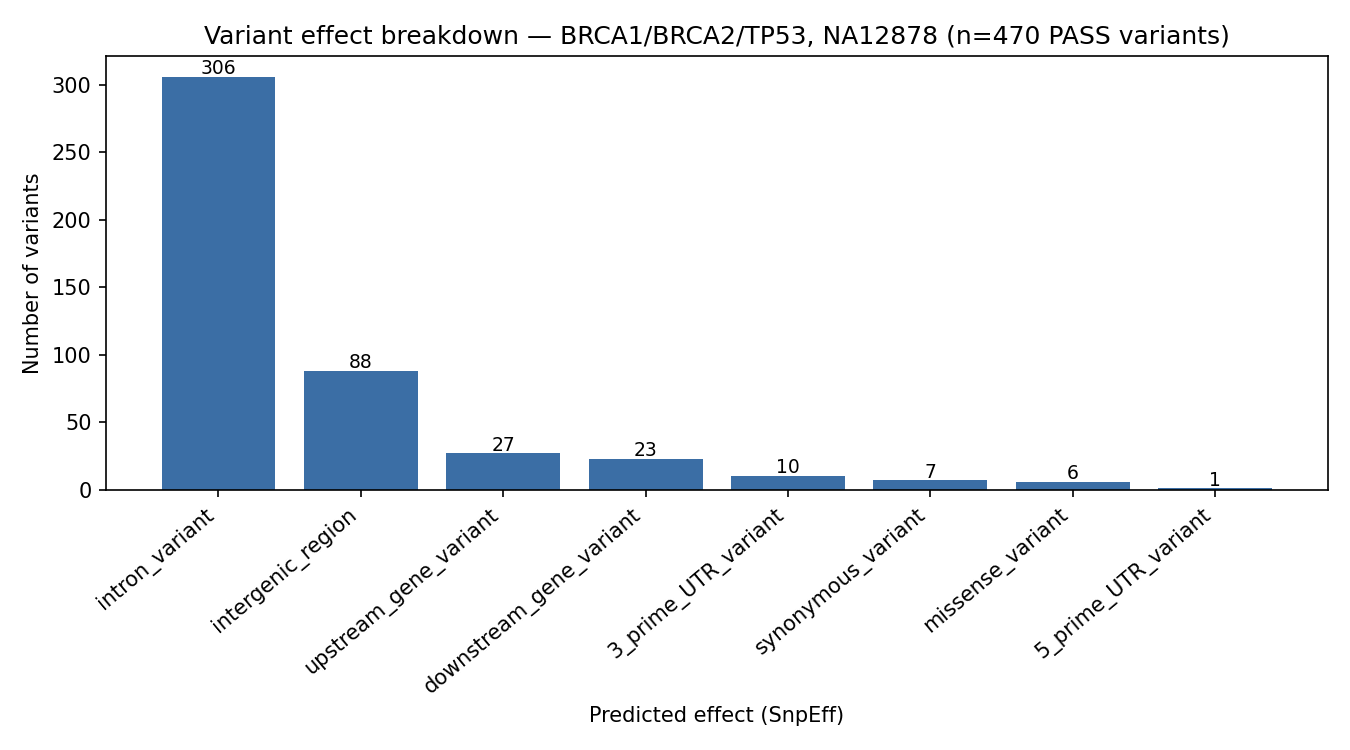
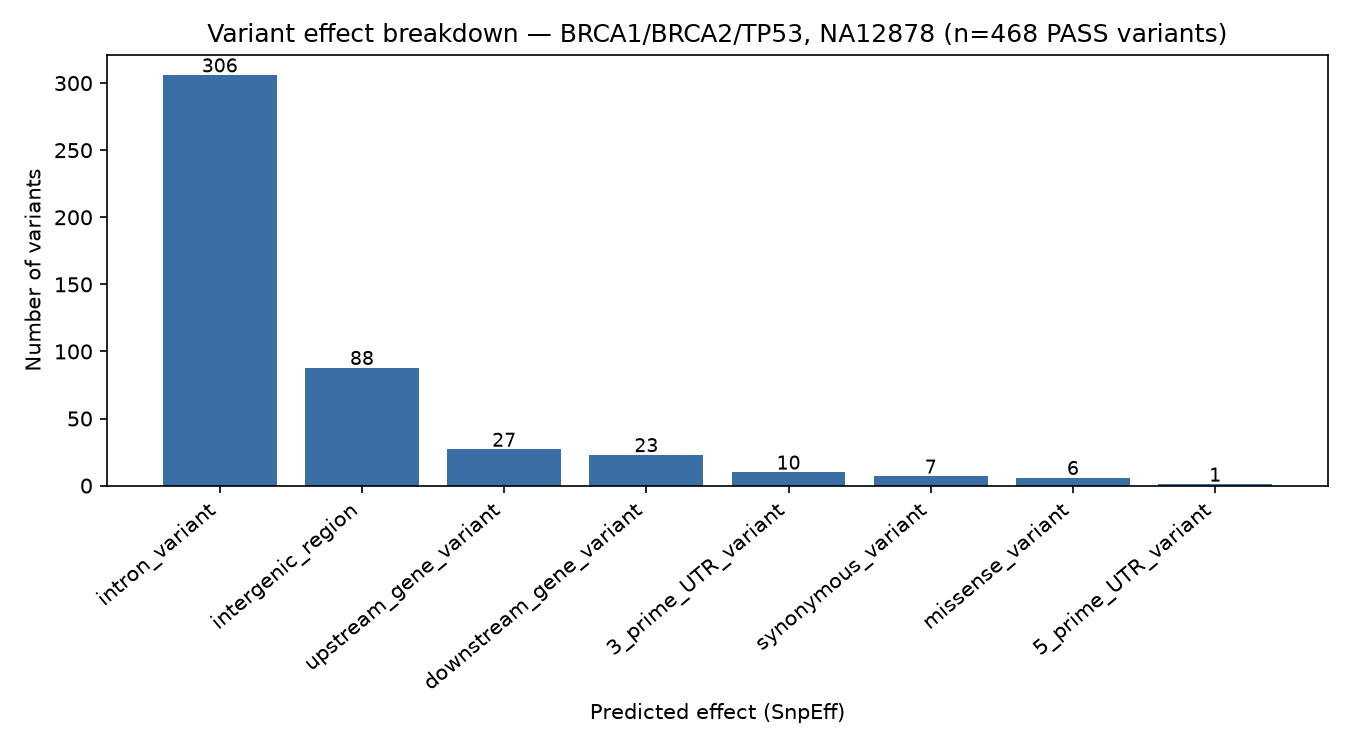
Fix figure script to read the correct annotation TSV and make variant count dynamic instead of hardcoded

diff --git a/scripts/09_make_figures.py b/scripts/09_make_figures.py
@@ -1,8 +1,9 @@
 #!/usr/bin/env python3
 """
 09_make_figures.py — generate labeled, captioned result figures.
-Run after 08_annotation.sh. Reads results/annotation/NA12878.annotations.tsv
-and writes results/figures/variant_effect_breakdown.png.
+Generates a figure from the completed BRCA panel annotation results.
+Reads results/variants/NA12878.BRCA_panel.clean.tsv and writes
+results/figures/variant_effect_breakdown.png.
 """
 import csv
 import os
@@ -10,8 +11,8 @@ import matplotlib
 matplotlib.use("Agg")
 import matplotlib.pyplot as plt
 
-PROJECT = os.path.expanduser("~/BRCA_Germline_Variant_Project")
-TSV = os.path.join(PROJECT, "results/annotation/NA12878.annotations.tsv")
+PROJECT = os.path.abspath(os.path.join(os.path.dirname(__file__), ".."))
+TSV = os.path.join(PROJECT, "results/variants/NA12878.BRCA_panel.clean.tsv")
 OUT = os.path.join(PROJECT, "results/figures/variant_effect_breakdown.png")
 
 counts = {}
@@ -29,7 +30,8 @@ fig, ax = plt.subplots(figsize=(9, 5))
 bars = ax.bar(labels, values, color="#3b6ea5")
 ax.set_ylabel("Number of variants")
 ax.set_xlabel("Predicted effect (SnpEff)")
-ax.set_title("Variant effect breakdown — BRCA1/BRCA2/TP53, NA12878 (n=470 PASS variants)")
+total_variants = sum(values)
+ax.set_title(f"Variant effect breakdown — BRCA1/BRCA2/TP53, NA12878 (n={total_variants} PASS variants)")
 plt.xticks(rotation=40, ha="right")
 for bar, v in zip(bars, values):
     ax.text(bar.get_x() + bar.get_width() / 2, v + 2, str(v), ha="center", fontsize=9)
